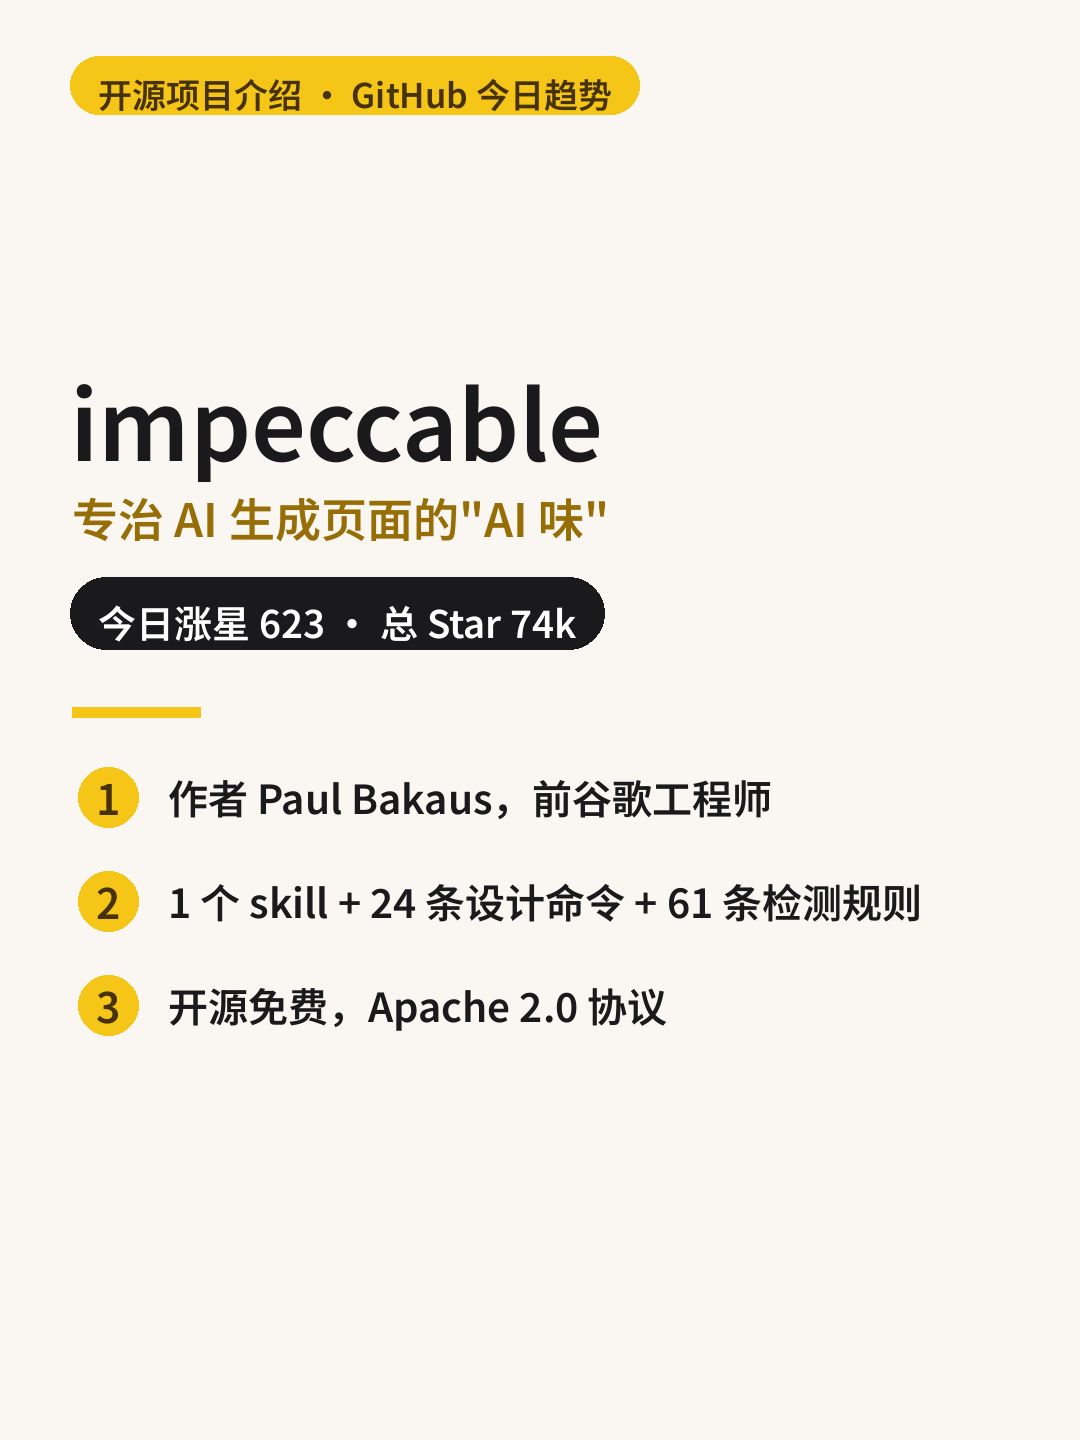
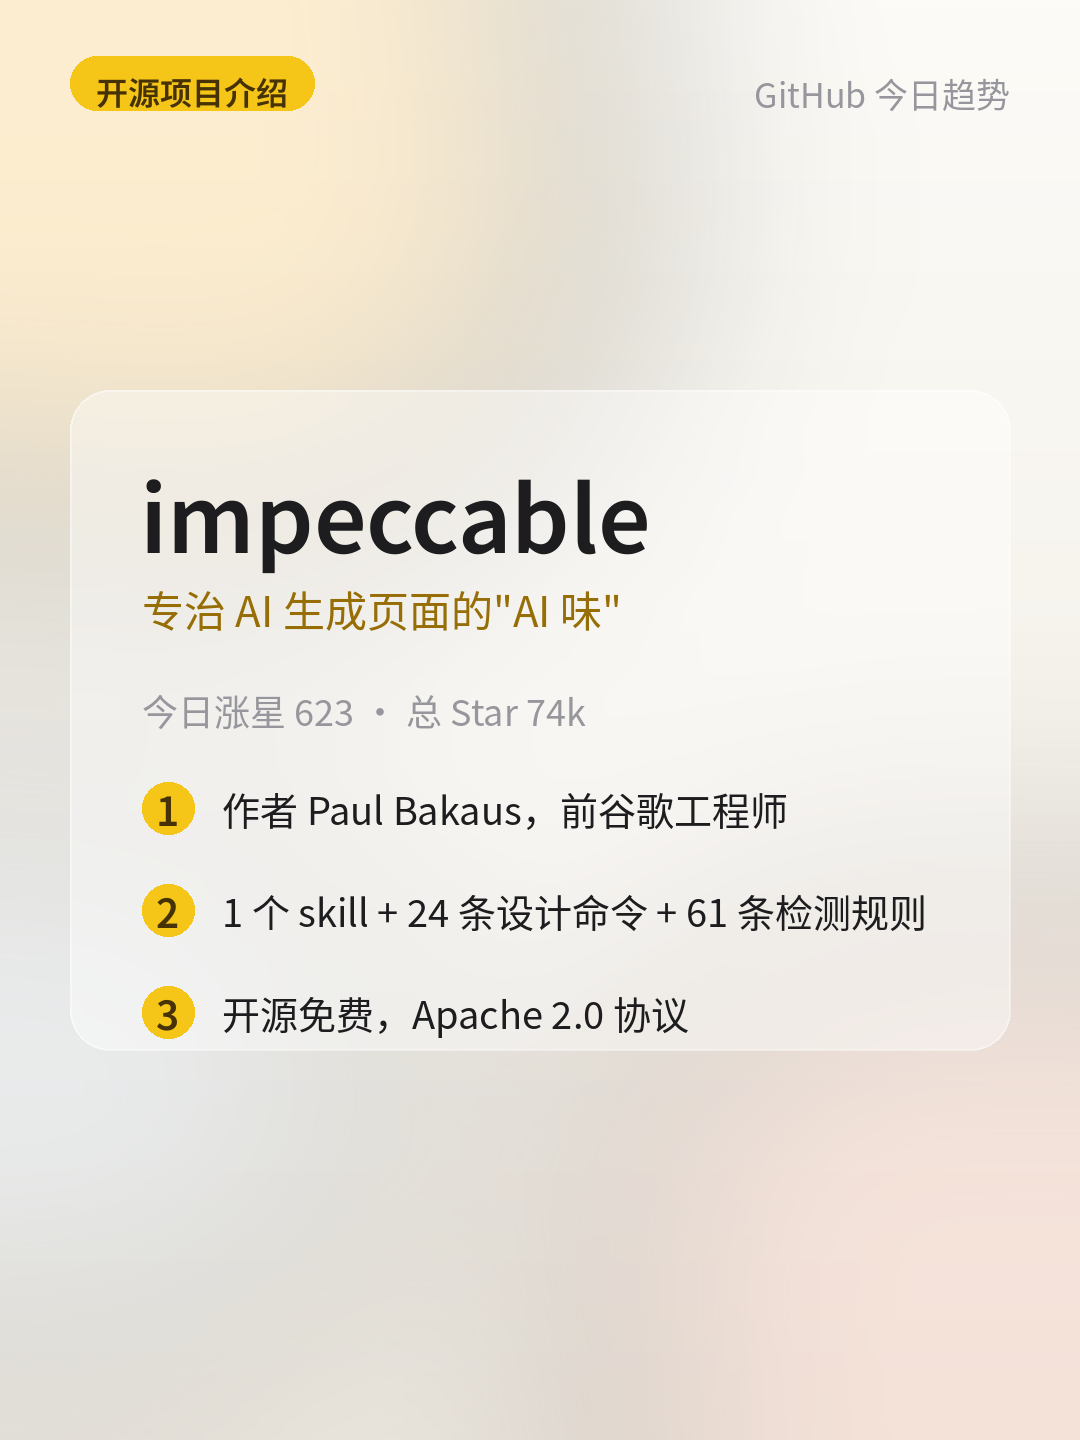
项目介绍卡片 v3：苹果简约字体+毛玻璃

diff --git a/scripts/generate_xhs_project_cards.py b/scripts/generate_xhs_project_cards.py
@@ -1,191 +1,221 @@
 #!/usr/bin/env python3
-"""小红书开源项目介绍卡片：浅色风 + 深色代码条。"""
+"""小红书开源项目介绍卡片 v3：苹果简约风 + 毛玻璃。
+
+- 背景：浅色渐变 + 柔光色块
+- 内容：毛玻璃面板（模糊背景 + 半透明白）
+- 字体：标题 SemiBold / 正文 Regular，宽松行距
+"""
 import sys
 import os
 
 sys.path.insert(0, os.path.dirname(os.path.abspath(__file__)))
-from generate_xhs_cards import _font, _wrap, _clean, W, H
-from PIL import Image, ImageDraw
+from generate_xhs_cards import _wrap, _clean, W, H
+from PIL import Image, ImageDraw, ImageFont, ImageFilter
 
-BG = (250, 247, 242)
-INK = (26, 26, 28)
-GRAY = (110, 108, 102)
-DIM = (165, 160, 150)
+FONT_SEMI = os.path.join(os.path.dirname(os.path.abspath(__file__)),
+                         'fonts', 'NotoSansSC-SemiBold.ttf')
+FONT_REG = '/usr/share/fonts/opentype/noto/NotoSansCJK-Regular.ttc'
+
+
+def _fs(size):
+    return ImageFont.truetype(FONT_SEMI, size)
+
+
+def _fr(size):
+    try:
+        return ImageFont.truetype(FONT_REG, size, index=2)
+    except Exception:
+        return ImageFont.truetype(FONT_REG, size)
+
+
+# 苹果系配色
+INK = (29, 29, 31)
+GRAY = (110, 110, 115)
+MUTED = (150, 150, 156)
 YELLOW = (245, 197, 24)
 YELLOW_D = (150, 110, 5)
-WHITE = (255, 255, 255)
 BROWN = (70, 50, 5)
-CODE_BG = (28, 28, 32)
-CODE_INK = (245, 197, 24)
-WARN_BG = (253, 236, 234)
-WARN_INK = (170, 44, 38)
+WHITE = (255, 255, 255)
 
 
-def _new():
-    img = Image.new('RGB', (W, H), BG)
-    return img, ImageDraw.Draw(img)
+def _bg():
+    """浅色渐变 + 柔光色块背景"""
+    img = Image.new('RGB', (W, H))
+    d = ImageDraw.Draw(img)
+    top, bot = (252, 251, 247), (240, 235, 226)
+    for y in range(H):
+        t = y / H
+        d.line([(0, y), (W, y)],
+               fill=tuple(int(top[i] + (bot[i] - top[i]) * t) for i in range(3)))
+    # 柔光色块
+    blob = Image.new('RGBA', (W, H), (0, 0, 0, 0))
+    bd = ImageDraw.Draw(blob)
+    bd.ellipse([-220, -160, 620, 560], fill=(255, 214, 140, 90))     # 右上暖黄
+    bd.ellipse([560, 900, 1300, 1600], fill=(255, 200, 190, 70))     # 左下柔粉
+    bd.ellipse([-260, 780, 420, 1380], fill=(200, 225, 255, 55))     # 左中淡蓝
+    blob = blob.filter(ImageFilter.GaussianBlur(130))
+    img = Image.alpha_composite(img.convert('RGBA'), blob).convert('RGB')
+    return img
 
-_dummy_img = Image.new('RGB', (W, H), BG)
-dummy_d = ImageDraw.Draw(_dummy_img)
+
+def _frosted(img, box, radius=36, blur=24, tint=(255, 255, 255, 110),
+             edge=True):
+    """在 img 的 box 区域做毛玻璃面板"""
+    x0, y0, x1, y1 = [int(v) for v in box]
+    crop = img.crop((x0, y0, x1, y1))
+    glass = crop.filter(ImageFilter.GaussianBlur(blur)).convert('RGBA')
+    glass = Image.alpha_composite(
+        glass, Image.new('RGBA', glass.size, tint))
+    mask = Image.new('L', glass.size, 0)
+    ImageDraw.Draw(mask).rounded_rectangle(
+        [0, 0, glass.size[0], glass.size[1]], radius=radius, fill=255)
+    img.paste(glass, (x0, y0), mask)
+    if edge:
+        ImageDraw.Draw(img, 'RGBA').rounded_rectangle(
+            [x0, y0, x1, y1], radius=radius,
+            outline=(255, 255, 255, 100), width=2)
+    return img
 
 
 def _pill(d, x, y, text):
-    f = _font(34)
+    f = _fs(32)
     tw = d.textlength(text, font=f)
-    d.rounded_rectangle([x, y, x + tw + 56, y + 58], radius=29, fill=YELLOW)
-    d.text((x + 28, y + 12), text, font=f, fill=BROWN)
+    d.rounded_rectangle([x, y, x + tw + 52, y + 54], radius=27, fill=YELLOW)
+    d.text((x + 26, y + 11), text, font=f, fill=BROWN)
 
 
-def _header(d, idx, total):
+def _header(img):
+    d = ImageDraw.Draw(img)
     _pill(d, 70, 56, '开源项目介绍')
-    f = _font(36)
-    t = f'{idx + 1:02d} / {total:02d}'
+    f = _fr(34)
+    t = 'GitHub 今日趋势'
     tw = d.textlength(t, font=f)
-    d.text((W - 70 - tw, 68), t, font=f, fill=DIM)
+    d.text((W - 70 - tw, 68), t, font=f, fill=MUTED)
+    return d
 
 
-GHOST = (235, 231, 221)
-
-def _ghost_num(d, idx, y_center):
-    """背景大数字水印"""
-    f = _font(430)
-    t = f'{idx + 1:02d}'
-    tw = d.textlength(t, font=f)
-    d.text((W - 70 - tw, y_center - 215), t, font=f, fill=GHOST)
-
-def _measure_card(title, bullets, code):
-    """预量内容卡高度，返回 (title_lines, bullet_lines_list, code_h, total_h)"""
-    f_title, f_b = _font(64), _font(38)
-    tl = _wrap(dummy_d, _clean(title), f_title, W - 140)[:2]
-    th = len(tl) * 90
-    bl = []
-    bh = 0
-    for b in bullets:
-        ln = _wrap(dummy_d, _clean(b), f_b, W - 140 - 56)[:3]
-        bl.append(ln)
-        bh += len(ln) * 58 + 22
-    ch = 0
-    if code:
-        f_c = _font(38)
-        cl = _wrap(dummy_d, _clean(code), f_c, W - 140 - 64)
-        ch = 16 + 36 + len(cl) * 58 + 28
-    total = th + 30 + bh + ch
-    return tl, bl, ch, total
-
-def draw_cover(kicker, title, subtitle, stats, points, path):
-    img, d = _new()
-    _pill(d, 70, 56, kicker)
-    f_title, f_sub, f_st = _font(96), _font(46), _font(38)
-    tl = _wrap(d, _clean(title), f_title, W - 140)[:2]
-    sl = _wrap(d, _clean(subtitle), f_sub, W - 140)[:2]
-    # 预量
-    th = len(tl) * 124 + 10 + len(sl) * 64 + 30 + 72 + 130 + 10
-    ph = 0
-    f_t = _font(40)
-    pl = []
-    for pt in points:
-        ln = _wrap(d, _clean(pt), f_t, W - 300)[:2]
-        pl.append(ln)
-        ph += len(ln) * 60 + 44
-    total_h = th + 60 + ph
-    top, bottom = 190, H - 120
-    y = top + max(0, (bottom - top - total_h) / 2)
+def draw_cover(title, subtitle, stats, points, path):
+    img = _bg()
+    d = _header(img)
+    # 中央毛玻璃面板
+    f_t, f_s, f_st = _fs(92), _fr(42), _fr(36)
+    tl = _wrap(d, _clean(title), f_t, W - 280)[:2]
+    sl = _wrap(d, _clean(subtitle), f_s, W - 280)[:2]
+    f_p = _fr(38)
+    pl = [_wrap(d, _clean(p), f_p, W - 280 - 90)[:2] for p in points]
+    ch = (len(tl) * 118 + 14 + len(sl) * 62 + 44
+          + 96 + sum(len(x) * 62 + 40 for x in pl) + 20)
+    px0, px1 = 70, W - 70
+    py = (H - ch) / 2
+    img = _frosted(img, (px0, py, px1, py + ch), radius=40)
+    d = ImageDraw.Draw(img)
+    y = py + 56
     for ln in tl:
-        d.text((70, y), ln, font=f_title, fill=INK)
-        y += 124
-    y += 10
+        d.text((140, y), ln, font=f_t, fill=INK)
+        y += 118
+    y += 14
     for ln in sl:
-        d.text((72, y), ln, font=f_sub, fill=YELLOW_D)
-        y += 64
-    y += 30
-    tw = d.textlength(stats, font=f_st)
-    d.rounded_rectangle([70, y, 70 + tw + 56, y + 72], radius=36, fill=INK)
-    d.text((98, y + 16), stats, font=f_st, fill=WHITE)
-    y += 130
-    d.rectangle([72, y, 200, y + 10], fill=YELLOW)
-    y += 60
-    f_n = _font(42)
-    for i, ln in enumerate(pl):
-        cy = y + 30
-        d.ellipse([78, cy - 30, 138, cy + 30], fill=YELLOW)
-        n = str(i + 1)
-        nw = d.textlength(n, font=f_n)
-        d.text((108 - nw / 2, cy - 31), n, font=f_n, fill=BROWN)
-        for l2 in ln:
-            d.text((168, y), l2, font=f_t, fill=INK)
-            y += 60
-        y += 44
+        d.text((142, y), ln, font=f_s, fill=YELLOW_D)
+        y += 62
+    y += 44
+    d.text((142, y), stats, font=f_st, fill=MUTED)
+    y += 96
+    f_n = _fs(40)
+    for i, lines in enumerate(pl):
+        for j, ln in enumerate(lines):
+            if j == 0:
+                cy = y + 28
+                d.ellipse([142, cy - 26, 194, cy + 26], fill=YELLOW)
+                n = str(i + 1)
+                nw = d.textlength(n, font=f_n)
+                d.text((168 - nw / 2, cy - 29), n, font=f_n, fill=BROWN)
+            d.text((222, y), ln, font=f_p, fill=INK)
+            y += 62
+        y += 40
     img.save(path)
 
 
 def draw_card(title, bullets, code, idx, total, path):
-    img, d = _new()
-    _header(d, idx, total)
-    tl, bl, ch, total_h = _measure_card(title, bullets, code)
-    # 内容在 header 下方区域垂直居中
-    top, bottom = 190, H - 120
-    y = top + max(0, (bottom - top - total_h) / 2)
-    _ghost_num(d, idx, top + (bottom - top) / 2)
-    f_title = _font(64)
+    img = _bg()
+    d = _header(img)
+    f = _fr(34)
+    t = f'{idx + 1:02d} / {total:02d}'
+    tw = d.textlength(t, font=f)
+    d.text((W - 70 - tw, 112), t, font=f, fill=MUTED)
+    f_title, f_b = _fs(60), _fr(37)
+    tl = _wrap(d, _clean(title), f_title, W - 280)[:2]
+    bl = [_wrap(d, _clean(b), f_b, W - 280 - 60)[:3] for b in bullets]
+    chh = 0
+    cl = []
+    if code:
+        f_c = _fr(36)
+        cl = _wrap(d, _clean(code), f_c, W - 280 - 80)
+        chh = 30 + 40 + len(cl) * 56 + 34
+    ch = (len(tl) * 88 + 44 + sum(len(x) * 66 + 26 for x in bl)
+          + (chh + 30 if code else 0) + 40)
+    px0, px1 = 70, W - 70
+    py = (H - ch) / 2 + 20
+    img = _frosted(img, (px0, py, px1, py + ch), radius=40)
+    d = ImageDraw.Draw(img)
+    y = py + 52
     for ln in tl:
-        d.text((70, y), ln, font=f_title, fill=INK)
-        y += 90
-    y += 30
-    f_b = _font(38)
+        d.text((140, y), ln, font=f_title, fill=INK)
+        y += 88
+    y += 44
     for lines in bl:
         for j, ln in enumerate(lines):
             if j == 0:
-                d.ellipse([72, y + 14, 96, y + 38], fill=YELLOW)
-            d.text((118, y), ln, font=f_b, fill=INK)
-            y += 58
-        y += 22
+                d.ellipse([142, y + 16, 164, y + 38], fill=YELLOW)
+            d.text((188, y), ln, font=f_b, fill=(58, 58, 62))
+            y += 66
+        y += 26
     if code:
-        y += 16
-        f_c = _font(38)
-        cl = _wrap(d, _clean(code), f_c, W - 140 - 64)
-        chh = 36 + len(cl) * 58 + 28
-        d.rounded_rectangle([70, y, W - 70, y + chh], radius=20, fill=CODE_BG)
+        y += 4
+        img = _frosted(img, (140, y, px1 - 70, y + chh), radius=24, blur=18,
+                       tint=(24, 24, 28, 165), edge=False)
+        d = ImageDraw.Draw(img)
         for k, c in enumerate([(255, 95, 86), (255, 189, 46), (39, 201, 63)]):
-            d.ellipse([100 + k * 34, y + 22, 122 + k * 34, y + 44], fill=c)
-        ty = y + 58
+            d.ellipse([170 + k * 32, y + 26, 190 + k * 32, y + 46], fill=c)
+        ty = y + 70
         for ln in cl:
-            d.text((104, ty), '$ ' + ln if not ln.startswith('/') else ln,
-                   font=f_c, fill=CODE_INK)
-            ty += 58
+            d.text((170, ty), '$ ' + ln, font=_fr(36), fill=(245, 197, 24))
+            ty += 56
     img.save(path)
 
 
 def draw_end(jinju, question, path):
-    img, d = _new()
-    _pill(d, 70, 56, '开源项目介绍')
-    f_j, f_q, f_fav = _font(56), _font(42), _font(40)
-    jl = _wrap(d, _clean(jinju), f_j, W - 140)[:3]
-    ql = _wrap(d, _clean(question), f_q, W - 140)[:3]
+    img = _bg()
+    d = _header(img)
+    f_j, f_q = _fs(52), _fr(40)
+    jl = _wrap(d, _clean(jinju), f_j, W - 280)[:3]
+    ql = _wrap(d, _clean(question), f_q, W - 280)[:3]
     t = '收藏这篇，下次让 AI 做页面时翻出来'
-    total_h = len(jl) * 84 + 60 + 10 + 70 + len(ql) * 66 + 40 + 84
-    top, bottom = 190, H - 120
-    y = top + max(0, (bottom - top - total_h) / 2)
+    f_btn = _fs(38)
+    ch = len(jl) * 80 + 70 + len(ql) * 62 + 48 + 88
+    px0, px1 = 70, W - 70
+    py = (H - ch) / 2 + 20
+    img = _frosted(img, (px0, py, px1, py + ch), radius=40)
+    d = ImageDraw.Draw(img)
+    y = py + 56
     for ln in jl:
-        d.text((70, y), ln, font=f_j, fill=INK)
-        y += 84
-    y += 60
-    d.rectangle([72, y, 200, y + 10], fill=YELLOW)
+        d.text((140, y), ln, font=f_j, fill=INK)
+        y += 80
     y += 70
     for ln in ql:
-        d.text((70, y), ln, font=f_q, fill=GRAY)
-        y += 66
-    y += 40
-    tw = d.textlength(t, font=f_fav)
-    d.rounded_rectangle([(W - tw) / 2 - 30, y, (W + tw) / 2 + 30, y + 84],
-                        radius=42, fill=YELLOW)
-    d.text(((W - tw) / 2, y + 20), t, font=f_fav, fill=BROWN)
+        d.text((140, y), ln, font=f_q, fill=GRAY)
+        y += 62
+    y += 48
+    tw = d.textlength(t, font=f_btn)
+    d.rounded_rectangle([(W - tw) / 2 - 34, y, (W + tw) / 2 + 34, y + 88],
+                        radius=44, fill=YELLOW)
+    d.text(((W - tw) / 2, y + 24), t, font=f_btn, fill=BROWN)
     img.save(path)
 
 
 if __name__ == '__main__':
     d = 'data/xhs-drafts/2026-10-04-impeccable'
     os.makedirs(d, exist_ok=True)
-    draw_cover('开源项目介绍 · GitHub 今日趋势', 'impeccable',
+    draw_cover('impeccable',
                '专治 AI 生成页面的"AI 味"',
                '今日涨星 623 · 总 Star 74k',
                ['作者 Paul Bakaus，前谷歌工程师',
@@ -206,10 +236,10 @@ if __name__ == '__main__':
               None, 1, 3, f'{d}/card_02.png')
     draw_card('三步上手，5 分钟装好',
               ['项目根目录运行安装命令',
-               '在 AI 编程工具里执行初始化，生成 PRODUCT.md',
-               '以后直接喊话：/impeccable polish，收工'],
+               '在 AI 编程工具里执行初始化',
+               '以后直接喊话 /impeccable polish 收工'],
               'npx impeccable install', 2, 3, f'{d}/card_03.png')
-    draw_end('AI 负责写代码，审美这件事有人替你盯着了。',
+    draw_end('AI 负责写代码，审美有人替你盯着了。',
              '你被 AI 的"AI 味"页面丑到过吗？评论区聊聊。',
              f'{d}/end.png')
-    print('项目介绍卡片已生成')
+    print('苹果风+毛玻璃卡片已生成')
